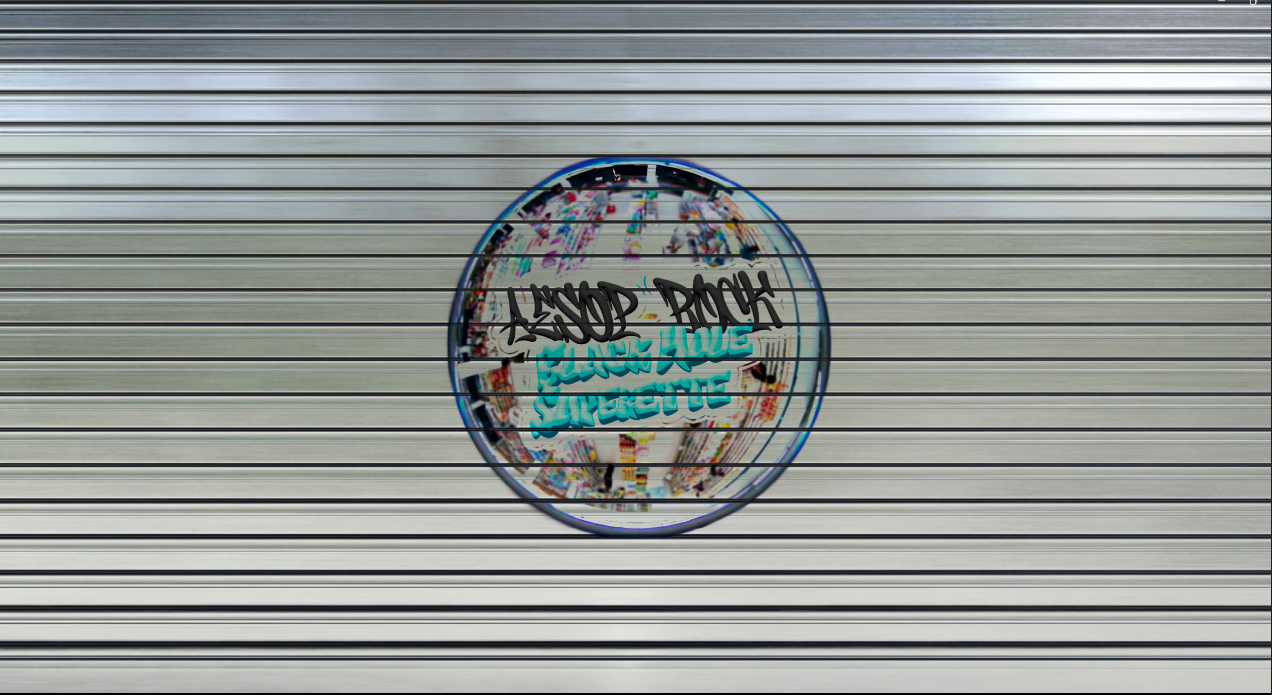
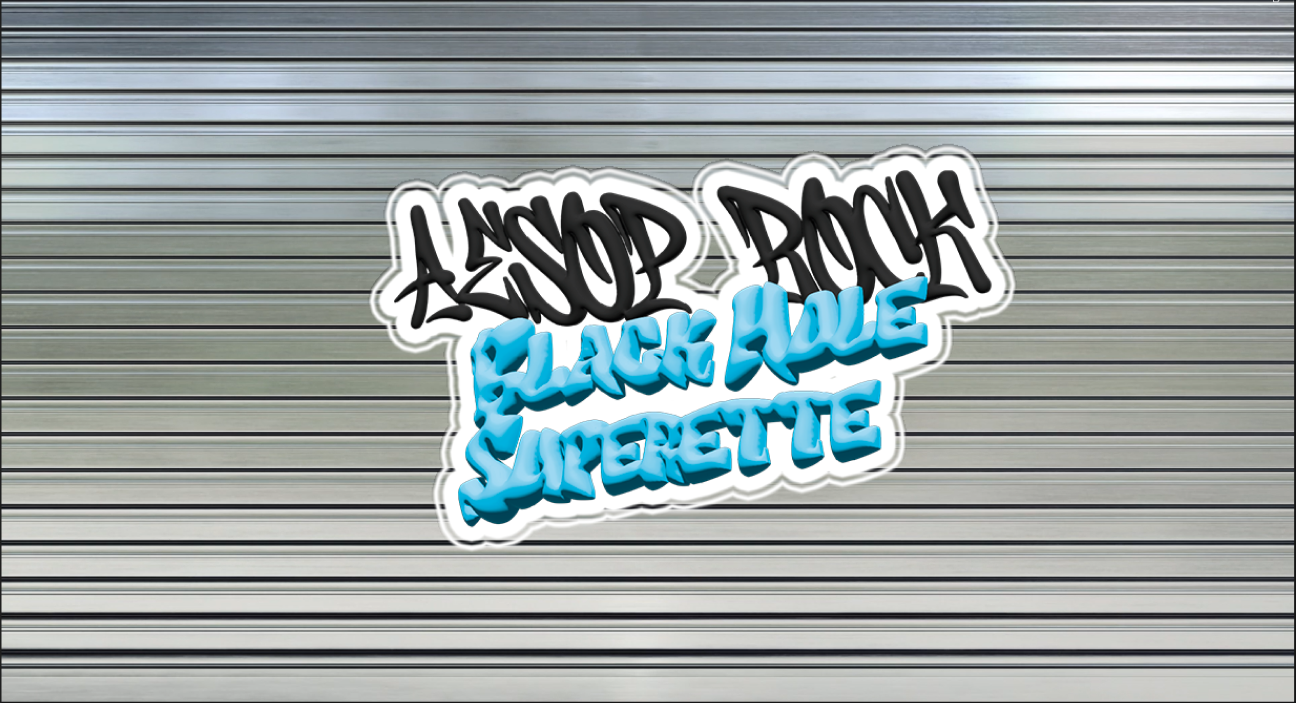
feat : changed style

diff --git a/src/components/Footer.tsx b/src/components/Footer.tsx
@@ -1,72 +1,101 @@
-import { Instagram, Youtube, Volume2, Mail, Zap } from 'lucide-react';
+import { Facebook, Instagram, Youtube } from "lucide-react"
 
-export default function Footer() {
-    const socialLinks = [
-        { icon: Youtube, href: '#youtube', label: 'YouTube' },
-        { icon: Volume2, href: '#spotify', label: 'Spotify' },
-        { icon: Instagram, href: '#instagram', label: 'Instagram' },
-        { icon: Mail, href: '#email', label: 'Email' },
-    ];
-
+export default function AesopRockPage() {
     return (
-        <footer className="relative bg-black border-t-4 border-cyan-400 overflow-hidden">
-            <div className="relative z-10 container mx-auto px-4 py-8">
-                <div className="grid grid-cols-1 md:grid-cols-3 gap-8 items-center">
-
-                    {/* Logo Section */}
-                    <div className="text-center md:text-left">
-                        <div className="flex flex-col items-center md:items-start space-y-2">
-                            <div className="text-2xl font-black text-transparent bg-clip-text bg-gradient-to-r from-cyan-400 to-magenta-400 transform -skew-x-6">
-                                BLACK HOLE
-                            </div>
-                            <div className="text-lg font-bold text-magenta-400 transform skew-x-6">
-                                SUPERETTE
-                            </div>
-                        </div>
-                    </div>
-
-                    {/* Social Links */}
-                    <div className="flex justify-center space-x-6">
-                        {socialLinks.map((link, index) => (
-                            <a
-                                key={index}
-                                href={link.href}
-                                className="group relative p-3 bg-gradient-to-br from-gray-800 to-gray-900 rounded-full hover:from-cyan-400 hover:to-magenta-400 transition-all duration-300 transform hover:scale-110 hover:rotate-12"
-                                aria-label={link.label}
-                            >
-                                <link.icon size={24} className="text-white group-hover:text-black transition-colors duration-300" />
-                                <div className="absolute inset-0 bg-gradient-to-br from-cyan-400 to-magenta-400 rounded-full opacity-0 group-hover:opacity-20 transition-opacity duration-300"></div>
-                            </a>
-                        ))}
-                    </div>
-
-                    {/* Copyright */}
-                    <div className="text-center md:text-right">
-                        <div className="space-y-2">
-                            <div className="text-sm text-gray-400 font-mono">
-                                © 2024 BLACK HOLE SUPERETTE
-                            </div>
-                            <div className="text-xs text-gray-500 font-mono tracking-wider">
-                                UNDERGROUND SOUND SYSTEM
-                            </div>
-                        </div>
-                    </div>
+        <footer className="bg-sky-300 flex flex-col">
+            <div className="flex flex-col md:flex-row items-center md:items-start justify-between px-4 md:px-8 py-8 md:py-12 max-w-7xl mx-auto w-full gap-8">
+                <div className="flex-shrink-0 mb-6 md:mb-0 flex justify-center md:justify-start w-full md:w-auto">
+                    <img
+                        src="/logo.png"
+                        alt="Aesop Rock logo with Black Blue Skelethon in graffiti style"
+                        className="w-48 md:w-80 h-auto"
+                    />
                 </div>
 
-                {/* Bottom distortion effect */}
-                <div className="mt-8 pt-4 border-t border-gray-800">
-                    <div className="flex items-center justify-center space-x-4">
-                        <Zap size={16} className="text-cyan-400 animate-pulse" />
-                        <div className="text-xs text-gray-500 font-mono uppercase tracking-widest">
-                            Distorted Reality
-                        </div>
-                        <Zap size={16} className="text-magenta-400 animate-pulse" />
-                    </div>
-                </div>
+                <nav className="flex flex-col items-center md:items-end space-y-2 text-center md:text-right w-full md:w-auto">
+                    <a className="text-gray-800 hover:text-gray-600 font-medium text-lg">
+                        SEARCH
+                    </a>
+                    <a className="text-gray-800 hover:text-gray-600 font-medium text-lg">
+                        FAQa
+                    </a>
+                    <a className="text-gray-800 hover:text-gray-600 font-medium text-lg">
+                        PRIVACY POLICY
+                    </a>
+                    <a className="text-gray-800 hover:text-gray-600 font-medium text-lg">
+                        CONTACT
+                    </a>
+                    <a className="text-gray-800 hover:text-gray-600 font-medium text-lg">
+                        SHOP
+                    </a>
+                    <a className="text-gray-800 hover:text-gray-600 font-medium text-lg">
+                        LISTEN
+                    </a>
+                    <a className="text-gray-800 hover:text-gray-600 font-medium text-lg">
+                        TERMS OF SERVICE
+                    </a>
+                    <a className="text-gray-800 hover:text-gray-600 font-medium text-lg">
+                        REFUND POLICY
+                    </a>
+                    <a className="text-gray-800 hover:text-gray-600 font-medium text-lg">
+                        DO NOT SELL MY PERSONAL INFORMATION
+                    </a>
+                    <a className="text-gray-800 hover:text-gray-600 font-medium text-lg">
+                        LICENSE AESOP ROCK MUSIC
+                    </a>
+                </nav>
             </div>
 
-            {/* Glitch effect overlay */}
-            <div className="absolute inset-0 bg-gradient-to-t from-black via-transparent to-transparent opacity-50 pointer-events-none"></div>
+            <div className="flex flex-wrap justify-center gap-4 md:gap-6 mb-8">
+                <a href="#" className="bg-white rounded-full p-4 hover:bg-gray-100 transition-colors flex items-center justify-center">
+                    <Facebook className="w-8 h-8 text-gray-800" />
+                    <span className="sr-only">Facebook</span>
+                </a>
+                <a href="#" className="bg-white rounded-full p-4 hover:bg-gray-100 transition-colors flex items-center justify-center">
+                    <svg className="w-8 h-8 text-gray-800" viewBox="0 0 24 24" fill="currentColor">
+                        <path d="M18.244 2.25h3.308l-7.227 8.26 8.502 11.24H16.17l-5.214-6.817L4.99 21.75H1.68l7.73-8.835L1.254 2.25H8.08l4.713 6.231zm-1.161 17.52h1.833L7.084 4.126H5.117z" />
+                    </svg>
+                    <span className="sr-only">X (Twitter)</span>
+                </a>
+                <a href="#" className="bg-white rounded-full p-4 hover:bg-gray-100 transition-colors flex items-center justify-center">
+                    <Instagram className="w-8 h-8 text-gray-800" />
+                    <span className="sr-only">Instagram</span>
+                </a>
+                <a href="#" className="bg-white rounded-full p-4 hover:bg-gray-100 transition-colors flex items-center justify-center">
+                    <Youtube className="w-8 h-8 text-gray-800" />
+                    <span className="sr-only">YouTube</span>
+                </a>
+                <a href="#" className="bg-white rounded-full p-4 hover:bg-gray-100 transition-colors flex items-center justify-center">
+                    <svg className="w-8 h-8 text-gray-800" viewBox="0 0 24 24" fill="currentColor">
+                        <path d="M12.53.02C13.84 0 15.14.01 16.44 0c.08 1.53.63 3.09 1.75 4.17 1.12 1.11 2.7 1.62 4.24 1.79v4.03c-1.44-.05-2.89-.35-4.2-.97-.57-.26-1.1-.59-1.62-.93-.01 2.92.01 5.84-.02 8.75-.08 1.4-.54 2.79-1.35 3.94-1.31 1.92-3.58 3.17-5.91 3.21-1.43.08-2.86-.31-4.08-1.03-2.02-1.19-3.44-3.37-3.65-5.71-.02-.5-.03-1-.01-1.49.18-1.9 1.12-3.72 2.58-4.96 1.66-1.44 3.98-2.13 6.15-1.72.02 1.48-.04 2.96-.04 4.44-.99-.32-2.15-.23-3.02.37-.63.41-1.11 1.04-1.36 1.75-.21.51-.15 1.07-.14 1.61.24 1.64 1.82 3.02 3.5 2.87 1.12-.01 2.19-.66 2.77-1.61.19-.33.4-.67.41-1.06.1-1.79.06-3.57.07-5.36.01-4.03-.01-8.05.02-12.07z" />
+                    </svg>
+                    <span className="sr-only">TikTok</span>
+                </a>
+            </div>
+
+            <div className="px-4 md:px-8 pb-8 max-w-4xl mx-auto">
+                <p className="text-gray-800 text-sm text-center leading-relaxed">
+                    Aesop Rock's website is committed to keeping our site accessible to everyone. We welcome feedback on ways to
+                    improve this site's accessibility. If you are having issues making a purchase or navigating our site, please
+                    contact us at: orders@aesoprock.com.
+                </p>
+            </div>
         </footer>
-    );
-};
+    )
+}
+
+
+
+
+
+
+
+
+
+
+
+
+
+
+
+

diff --git a/src/components/Header.tsx b/src/components/Header.tsx
@@ -1,74 +1,14 @@
-import { Menu, X } from 'lucide-react';
-import { useState } from 'react';
-
 export default function Header() {
-    const [isMenuOpen, setIsMenuOpen] = useState(false);
-
-    const navItems = [
-        { name: 'Accueil', href: '#home' },
-        { name: 'À propos', href: '#about' },
-        { name: 'Écouter', href: '#listen' },
-        { name: 'Clips', href: '#videos' },
-        { name: 'Contact', href: '#contact' }
-    ];
-
     return (
-        <header className="relative bg-black border-b-4 border-cyan-400 overflow-hidden">
-            <nav className="relative z-10 container mx-auto px-4 py-4">
-                <div className="flex items-center justify-between">
-                    {/* Logo */}
-                    <div className="flex items-center space-x-2">
-                        <div className="relative">
-                            <h1 className="text-3xl md:text-4xl font-black text-transparent bg-clip-text bg-gradient-to-r from-cyan-400 via-white to-magenta-400 transform -skew-x-12 hover:skew-x-0 transition-transform duration-300">
-                                BLACK HOLE
-                            </h1>
-                        </div>
-                        <div className="text-xl md:text-2xl font-bold text-magenta-400 transform skew-x-12 hover:skew-x-0 transition-transform duration-300">
-                            SUPERETTE
-                        </div>
-                    </div>
-
-                    {/* Desktop Menu */}
-                    <div className="hidden md:flex items-center space-x-8">
-                        {navItems.map((item, index) => (
-                            <a
-                                key={index}
-                                href={item.href}
-                                className="relative text-white hover:text-cyan-400 font-bold uppercase tracking-wider transition-all duration-300 group"
-                            >
-                                {item.name}
-                                <span className="absolute -bottom-1 left-0 w-0 h-0.5 bg-gradient-to-r from-cyan-400 to-magenta-400 group-hover:w-full transition-all duration-300"></span>
-                            </a>
-                        ))}
-                    </div>
-
-                    {/* Mobile Menu Button */}
-                    <button
-                        onClick={() => setIsMenuOpen(!isMenuOpen)}
-                        className="md:hidden text-white hover:text-cyan-400 transition-colors duration-300"
-                    >
-                        {isMenuOpen ? <X size={28} /> : <Menu size={28} />}
-                    </button>
-                </div>
-
-                {/* Mobile Menu */}
-                {isMenuOpen && (
-                    <div className="md:hidden absolute top-full left-0 right-0 bg-black bg-opacity-95 backdrop-blur-md border-t border-cyan-400 z-50">
-                        <div className="container mx-auto px-4 py-6">
-                            {navItems.map((item, index) => (
-                                <a
-                                    key={index}
-                                    href={item.href}
-                                    className="block py-3 text-white hover:text-cyan-400 font-bold uppercase tracking-wider transition-colors duration-300 border-b border-gray-800 last:border-b-0"
-                                    onClick={() => setIsMenuOpen(false)}
-                                >
-                                    {item.name}
-                                </a>
-                            ))}
-                        </div>
-                    </div>
-                )}
+        <header className="bg-black border-b-4 border-cyan-400 relative overflow-visible">
+            <nav className="container mx-auto px-4 py-4 flex justify-center items-center relative">
+                <img
+                    src="/logo.png"
+                    alt="Logo"
+                    className="h-20 md:h-28 -my-4"
+                    style={{ maxHeight: 80 }}
+                />
             </nav>
         </header>
     );
-};
+}

diff --git a/src/components/CountDown.tsx b/src/components/CountDown.tsx
@@ -9,7 +9,7 @@ export default function Countdown() {
   })
 
   useEffect(() => {
-    const targetDate = new Date("2025-07-14T00:00:00")
+    const targetDate = new Date("2025-07-26T00:00:00")
 
     const timer = setInterval(() => {
       const now = new Date().getTime()
@@ -36,21 +36,15 @@ export default function Countdown() {
   return (
     <section className="w-full flex items-center justify-center">
       <div className="text-center space-y-10">
-        <h1
-          className="text-2xl md:text-3xl uppercase tracking-widest dotgothic16-regular text-white"
-        >
-          Premiere date de concert
-        </h1>
-
         <div className="flex flex-col items-center space-y-2">
           <div
-            className="px-18 py-12 border-20 border-gray-600 bg-black inline-block"
+            className="px-18 py-12 inline-block"
             style={{
-              fontFamily: "'DotGothic16', monospace",
+              fontFamily: "DotMatrix, sans-serif",
             }}
           >
             <span
-              className="text-6xl md:text-8xl text-green-500"
+              className="text-6xl md:text-9xl text-sky-300"
             >
               {formatNumber(timeLeft.days)}:
               {formatNumber(timeLeft.hours)}:
@@ -58,9 +52,6 @@ export default function Countdown() {
               {formatNumber(timeLeft.seconds)}
             </span>
           </div>
-
-          <div className="w-8 h-16 bg-gray-600"></div>
-          <div className="w-24 h-6 bg-gray-600 rounded-b-md"></div>
         </div>
 
       </div>
